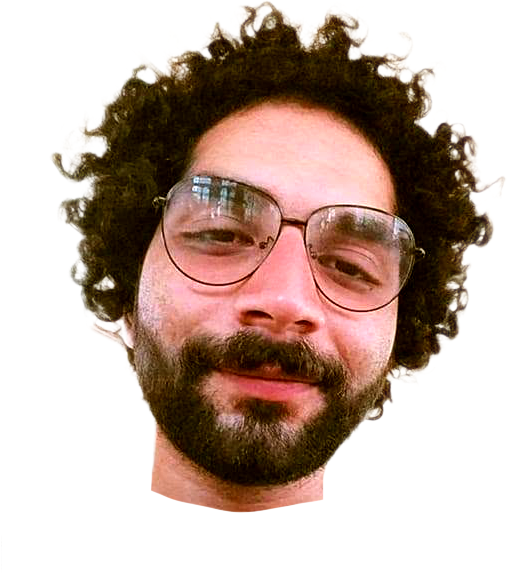
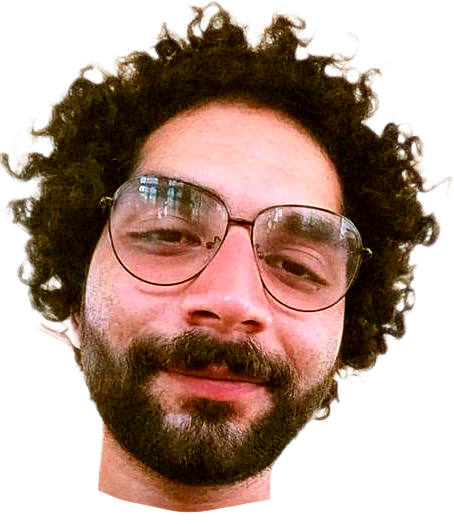
Center align intro section and fix line height

diff --git a/app/components/IntroSection.tsx b/app/components/IntroSection.tsx
@@ -6,7 +6,7 @@ export default function IntroSection() {
         <span className="intro-label reveal">[PHILOSOPHY]</span>
         <div className="intro-text-block reveal">
           <h2 className="intro-line" style={{ display: "block" }}>
-            Shaping impactful digital products through data-driven research and <span className="script" style={{ padding: "0 0.2em", fontSize: "2.5em", textTransform: "lowercase", display: "inline-block", verticalAlign: "middle", transform: "translateY(-0.15em)" }}>luxury</span> interaction design.
+            Shaping impactful digital products through data-driven research and <span className="script" style={{ padding: "0 0.2em", fontSize: "2.5em", textTransform: "lowercase", display: "inline-block", verticalAlign: "middle", transform: "translateY(-0.15em)", lineHeight: "0.5" }}>luxury</span> interaction design.
           </h2>
         </div>
       </div>

diff --git a/app/globals.css b/app/globals.css
@@ -556,14 +556,19 @@ body::before {
   max-width: var(--container-max);
   margin: 0 auto;
   padding: 0 var(--container-padding);
+  display: flex;
+  flex-direction: column;
+  align-items: center;
+  text-align: center;
 }
 
 .intro-text-block {
   overflow: hidden;
+  width: 100%;
 }
 
 .intro-label {
-  display: block;
+  display: inline-block;
   font-family: var(--font-mono);
   font-size: 0.72rem;
   font-weight: 500;
@@ -581,6 +586,7 @@ body::before {
   color: var(--text-light);
   letter-spacing: 0.01em;
   max-width: 900px;
+  margin: 0 auto;
 }
 
 .intro-line .bracket {
